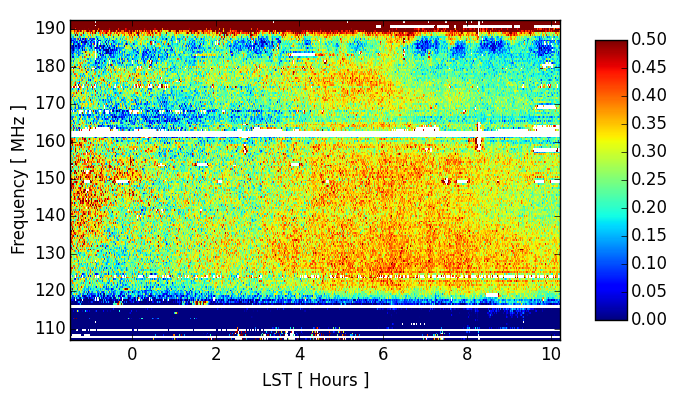
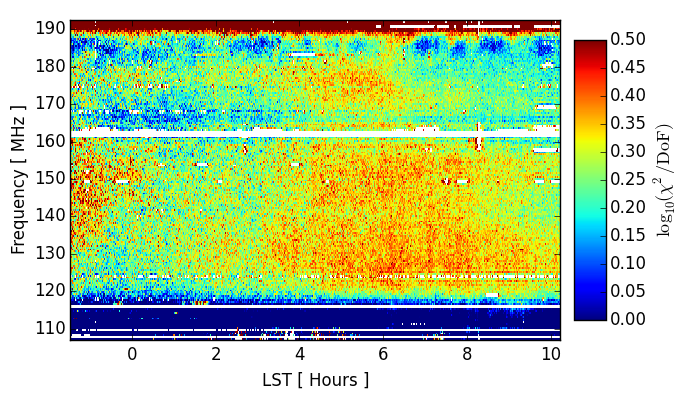
updated chi2

Changed region(s): [[0.81, 0.06, 0.96, 0.81]]

diff --git a/plots/plot_chi2.py b/plots/plot_chi2.py
@@ -26,8 +26,10 @@ p.xlabel('LST [ Hours ]')
 p.ylabel('Frequency [ MHz ]')
 
 fig.subplots_adjust(left=.1, top=.95, bottom=.15, wspace=.2, hspace=.1, right=0.8)
-cbar = fig.add_axes([.85,.2,.045,.7])
+cbar = fig.add_axes([.82,.2,.045,.7])
 fig.colorbar(im1, cax=cbar)
+#cbar.set_xlabel(r'${\rm log}_{10}({\rm \chi^{2}/DoF})$', size=12, labelpad=10)
+p.ylabel(r'${\rm log}_{10}({\rm \chi^{2}/DoF})$', fontsize=13)
 #cbar_ax1 = fig.add_axes([.9,.1,.05, .3])
 #fig.colorbar(im1, cax=cbar_ax1)
 #ax.imshow(n.transpose(f['arr_0']), vmin = 0, vmax = 3, extent=[lsts[0], lsts[1],100,200], interpolation = 'none')
